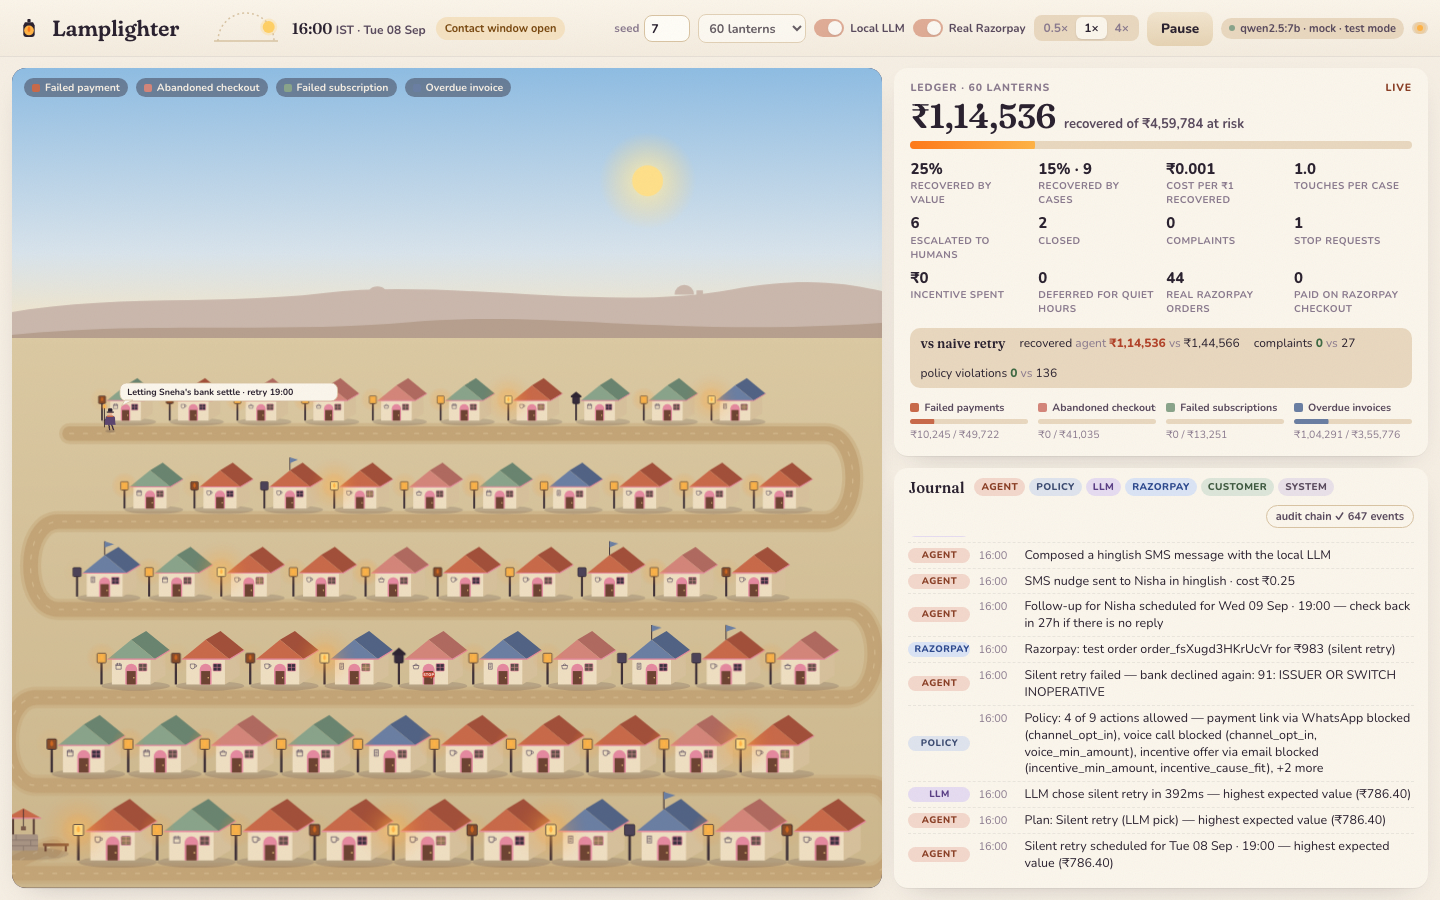
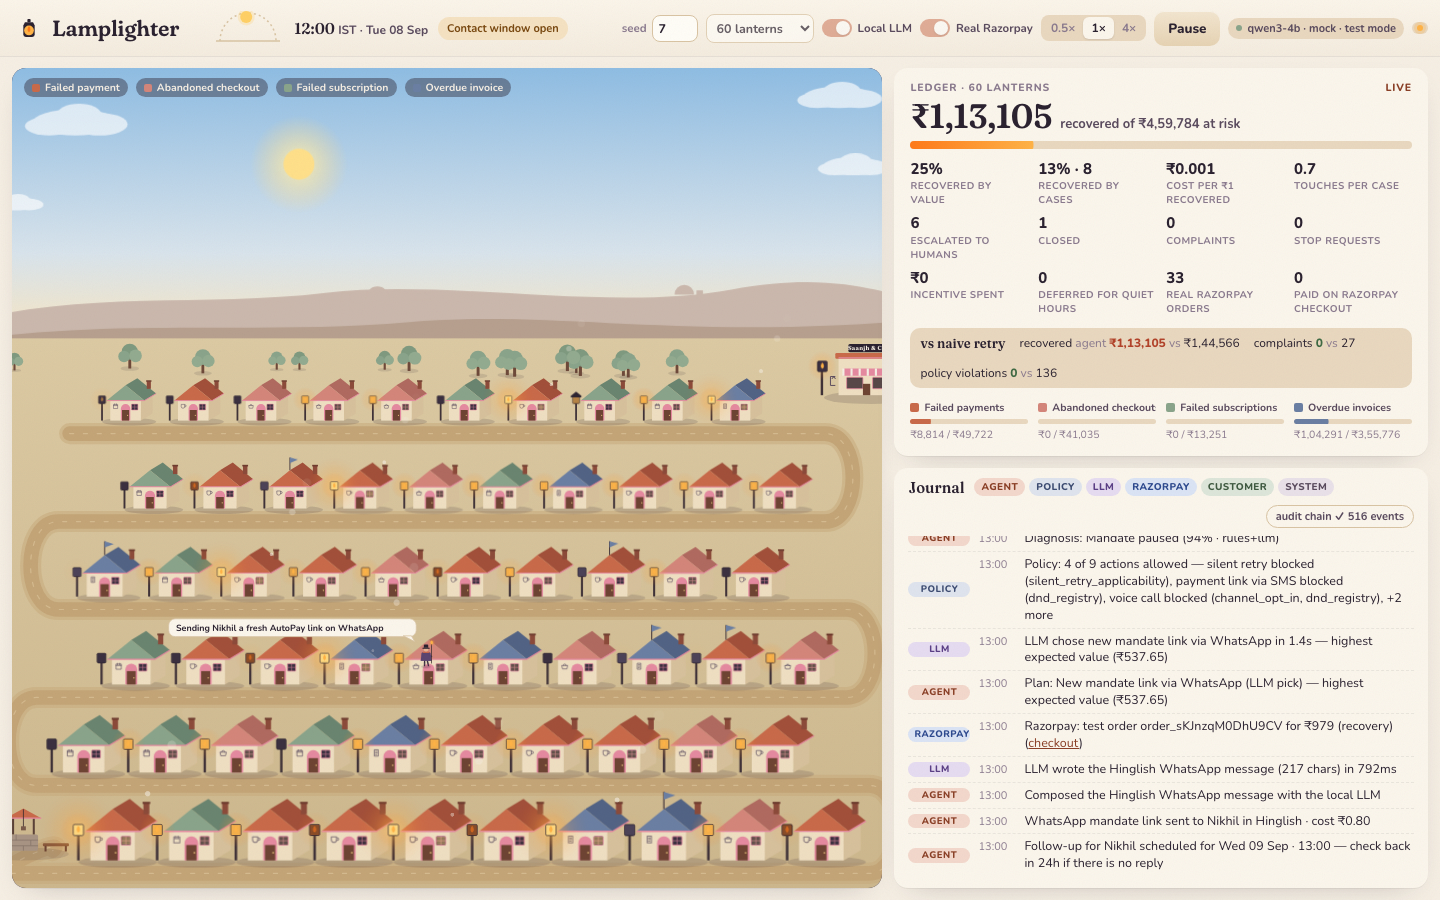
feat(town): chimneys with smoke on relit houses, lantern light pools at night, drifting clouds, treeline, the Saanjh & Co. studio

diff --git a/web/src/components/Town.tsx b/web/src/components/Town.tsx
@@ -19,6 +19,8 @@ interface Sparkle { key: number; x: number; y: number; amount: number }
 interface Tip { id: string; left: number; top: number }
 
 const SPARK_DIRS = [[-18, -22], [16, -26], [-26, -6], [26, -10], [-8, -32], [10, -34]];
+const CLOUDS = [{ y: 0.22, s: 1.15, dur: 190, delay: 40 }, { y: 0.4, s: 0.8, dur: 150, delay: 110 }, { y: 0.12, s: 0.95, dur: 230, delay: 170 }, { y: 0.55, s: 0.6, dur: 130, delay: 20 }];
+const STUDIO = { x: 1118, dy: 100 };
 
 export function Town({ cases, simNow, lamplighter, empty, selectedId, onSelect }: Props) {
   const wrapRef = useRef<HTMLDivElement>(null);
@@ -40,6 +42,7 @@ export function Town({ cases, simNow, lamplighter, empty, selectedId, onSelect }
   const mix = useMemo(() => skyMix(hour, H), [hour, H]);
   const stars = useMemo(() => scenery(11, 80), []);
   const flies = useMemo(() => scenery(23, 16), []);
+  const treeline = useMemo(() => scenery(31, 16).map((t, i) => ({ x: 60 + t.x * (TOWN_W - 340), y: layout.horizon + 62 + t.y * 14, s: 0.5 + t.r * 0.3, k: i % 2 })), [layout.horizon]);
   const indexById = useMemo(() => new Map(cases.map((c, i) => [c.case.id, i] as const)), [cases]);
   const horizon = layout.horizon;
 
@@ -152,6 +155,7 @@ export function Town({ cases, simNow, lamplighter, empty, selectedId, onSelect }
             <stop offset={((horizon + 10) / H).toFixed(4)} stopColor="#1b1638" stopOpacity="1" />
           </linearGradient>
           <radialGradient id="glow"><stop offset="0" stopColor="#ffd27a" stopOpacity="0.95" /><stop offset="0.35" stopColor="#ffb347" stopOpacity="0.55" /><stop offset="1" stopColor="#ff7a1a" stopOpacity="0" /></radialGradient>
+          <radialGradient id="pool"><stop offset="0" stopColor="#ffc46b" stopOpacity="0.6" /><stop offset="0.5" stopColor="#ffb347" stopOpacity="0.22" /><stop offset="1" stopColor="#ffb347" stopOpacity="0" /></radialGradient>
           <radialGradient id="sunGlow"><stop offset="0" stopColor="#fff2b0" stopOpacity="0.9" /><stop offset="1" stopColor="#ffd98a" stopOpacity="0" /></radialGradient>
           <radialGradient id="moonGlow"><stop offset="0" stopColor="#fff8e0" stopOpacity="0.55" /><stop offset="1" stopColor="#fff8e0" stopOpacity="0" /></radialGradient>
           <filter id="blur" x="-30%" y="-30%" width="160%" height="160%"><feGaussianBlur stdDeviation="7" /></filter>
@@ -177,6 +181,17 @@ export function Town({ cases, simNow, lamplighter, empty, selectedId, onSelect }
           <circle cx="-5" cy="-3" r="3" fill="#e4dcc2" />
           <circle cx="5" cy="5" r="2" fill="#e4dcc2" />
           <circle cx="4" cy="-6" r="1.4" fill="#e4dcc2" />
+        </g>
+
+        {/* clouds drift all day and fade out at night */}
+        <g className="clouds" style={{ opacity: (1 - mix.night) * 0.85 }}>
+          {CLOUDS.map((c, i) => (
+            <g key={i} className="cloud" style={{ '--cd': `${c.dur}s`, '--cdelay': `-${c.delay}s` } as CSSProperties}>
+              <g transform={`translate(0 ${(c.y * horizon).toFixed(0)}) scale(${c.s})`}>
+                <ellipse cx="0" cy="0" rx="46" ry="14" /><ellipse cx="-28" cy="4" rx="26" ry="10" /><ellipse cx="26" cy="2" rx="30" ry="12" /><ellipse cx="4" cy="-8" rx="24" ry="12" />
+              </g>
+            </g>
+          ))}
         </g>
 
         {/* horizon: far ridge with Jaipur domes, nearer hill with a little parallax */}
@@ -215,11 +230,47 @@ export function Town({ cases, simNow, lamplighter, empty, selectedId, onSelect }
         </g>
 
         {/* houses (bodies), then the night overlay, then everything that glows */}
+        <g className="treeline">
+          {treeline.map((t, i) => (
+            <g key={i} className="tree" transform={`translate(${t.x.toFixed(0)} ${t.y.toFixed(0)}) scale(${t.s.toFixed(2)})`}>
+              <ellipse cx="0" cy="3" rx="16" ry="4" fill="rgba(43,34,48,0.12)" />
+              <rect x="-2.5" y="-16" width="5" height="19" fill="#6e4a3a" />
+              <circle cx="0" cy="-26" r="14" fill={t.k ? '#7f9a80' : '#8aa48b'} />
+              <circle cx="-10" cy="-18" r="10" fill={t.k ? '#8aa48b' : '#93ab90'} />
+              <circle cx="10" cy="-19" r="11" fill="#93ab90" />
+            </g>
+          ))}
+        </g>
+        <g className="studio" transform={`translate(${STUDIO.x} ${(horizon + STUDIO.dy).toFixed(0)})`}>
+          <ellipse cx="4" cy="3" rx="58" ry="8" fill="rgba(43,34,48,0.16)" />
+          <polygon points="34,-46 54,-56 54,-12 34,0" fill="#d7c19c" />
+          <rect x="-36" y="-46" width="70" height="46" fill="#efdfc2" />
+          <rect x="-40" y="-52" width="98" height="7" rx="1.5" fill="#c96a4a" />
+          <path d="M-36,-46 H34 L54,-56" fill="none" stroke="#e58aa0" strokeWidth="1.6" />
+          <rect x="-30" y="-33" width="60" height="9" rx="1.5" fill="#e58aa0" />
+          <path d="M-30,-33 v9 M-20,-33 v9 M-10,-33 v9 M0,-33 v9 M10,-33 v9 M20,-33 v9" stroke="#f6efe4" strokeWidth="2.6" />
+          <rect x="-26" y="-22" width="20" height="14" rx="1" fill="#3b3040" stroke="#e58aa0" strokeWidth="1" />
+          <rect x="6" y="-22" width="20" height="14" rx="1" fill="#3b3040" stroke="#e58aa0" strokeWidth="1" />
+          <rect x="-6" y="-14" width="9" height="14" fill="#6e4433" />
+          <rect x="-24" y="-63" width="48" height="10" rx="2" fill="#2b2230" />
+          <text x="0" y="-55.5" textAnchor="middle" fontSize="7.2" fontWeight="700" fill="#f6efe4" style={{ fontFamily: 'var(--font-display)', letterSpacing: 0.3 }}>Saanjh &amp; Co.</text>
+          <path d="M-40,-23 h-6 v11 h6 M-44,-20 a2,2 0 0 1 4,0" fill="none" stroke="#5a4b5e" strokeWidth="1.2" />
+          <rect x="-58" y="-30" width="3" height="30" className="h-post" />
+        </g>
         <g className="houses">
           {layout.spots.map((sp, i) => cases[i] && <House key={cases[i].case.id} st={cases[i]} x={sp.x} y={sp.y} s={sp.s} i={i} selected={cases[i].case.id === selectedId} />)}
         </g>
         <rect className="night-overlay" width={TOWN_W} height={H} fill="url(#nightFade)" style={{ opacity: overlayOpacity }} />
         <g className="lights">
+          <g className="studio-lights" transform={`translate(${STUDIO.x} ${(horizon + STUDIO.dy).toFixed(0)})`}>
+            <ellipse cx="-56" cy="3" rx="34" ry="9" className="pool-always" />
+            <rect x="-25.5" y="-21.5" width="19" height="13" className="swin" />
+            <rect x="6.5" y="-21.5" width="19" height="13" className="swin" />
+            <circle cx="-56" cy="-36" r="18" className="sglow" />
+            <rect x="-62" y="-42" width="12" height="13" rx="1.5" fill="#3b3040" stroke="#2b2230" strokeWidth="0.8" />
+            <path d="M-56,-40.5 c-2.6,3.2 -2.6,6.4 0,8 c2.6,-1.6 2.6,-4.8 0,-8z" fill="#ffb347" />
+            {[0, 1.3].map((d) => <circle key={d} className="puff" cx="44" cy="-58" r="3" style={{ '--pd': `${d}s` } as CSSProperties} />)}
+          </g>
           {layout.spots.map((sp, i) => cases[i] && <HouseLights key={cases[i].case.id} st={cases[i]} x={sp.x} y={sp.y} s={sp.s} i={i} selected={false} />)}
         </g>
 

diff --git a/web/src/styles.css b/web/src/styles.css
@@ -170,7 +170,22 @@ h1, h2, h3, h4 { margin: 0; font-weight: 600; }
 .house .h-win { fill: #3b3040; stroke: var(--pink); stroke-width: 1; }
 .house .h-winbar { stroke: var(--pink); stroke-width: 0.8; opacity: 0.8; }
 .house .h-icon { fill: none; stroke: #5a4b5e; stroke-width: 1.2; stroke-linecap: round; stroke-linejoin: round; opacity: 0.7; }
-.house .h-post { fill: #3f3238; }
+.house .h-post, .studio .h-post { fill: #3f3238; }
+.house .h-chimney { fill: #8c4b3a; }
+.house .h-chimcap { fill: #6e3c2f; }
+.lantern .pool { fill: url(#pool); opacity: 0; transition: opacity 1.6s linear; }
+.lantern.st-recovered .pool { opacity: calc(0.85 * var(--night)); }
+.lantern.st-awaiting_customer .pool { opacity: calc(0.42 * var(--night)); }
+.lantern.st-scheduled .pool { opacity: calc(0.18 * var(--night)); }
+.puff { fill: rgba(246, 239, 228, 0.85); opacity: 0; animation: puff 3.8s ease-out infinite; animation-delay: var(--pd); }
+@keyframes puff { 0% { transform: translate(0, 0) scale(0.5); opacity: 0; } 15% { opacity: 0.7; } 100% { transform: translate(8px, -32px) scale(2.1); opacity: 0; } }
+.clouds { pointer-events: none; transition: opacity 1.6s linear; }
+.cloud { fill: #fff; opacity: 0.78; animation: cloud-drift var(--cd) linear infinite; animation-delay: var(--cdelay); }
+@keyframes cloud-drift { from { transform: translateX(-300px); } to { transform: translateX(1500px); } }
+.treeline, .studio { pointer-events: none; }
+.studio-lights .swin { fill: #ffd27a; opacity: calc(0.15 + 0.85 * var(--night)); transition: opacity 1.6s linear; }
+.studio-lights .sglow { fill: url(#glow); opacity: calc(0.45 + 0.55 * var(--night)); transition: opacity 1.6s linear; }
+.studio-lights .pool-always { fill: url(#pool); opacity: calc(0.85 * var(--night)); transition: opacity 1.6s linear; }
 .house .h-pole { stroke: #3f3238; stroke-width: 1.4; }
 .house:hover .h-front, .house:focus-visible .h-front { fill: #fbeed4; }
 .house:focus-visible .h-front { stroke: var(--amber); stroke-width: 2.5; }
@@ -393,7 +408,8 @@ h1, h2, h3, h4 { margin: 0; font-weight: 600; }
 /* ---------- reduced motion ---------- */
 @media (prefers-reduced-motion: reduce) {
   .st-awaiting_customer .glow, .st-scheduled .glow, .star.tw, .hill-mid, .firefly, .lp.walking .lp-figure, .lp.walking .leg-l, .lp.walking .leg-r,
-  .lp .steam, .lp .flame-lp, .pennant-flag, .lp.lift .lp-arm, .jl, .notice, .town-tip, .town-caption, .to-bottom { animation: none !important; }
+  .lp .steam, .lp .flame-lp, .pennant-flag, .lp.lift .lp-arm, .jl, .notice, .town-tip, .town-caption, .to-bottom, .puff, .cloud { animation: none !important; }
+  .puff { opacity: 0; }
   .st-awaiting_customer .glow { opacity: 0.75; }
   .st-scheduled .glow { opacity: 0.35; }
   .firefly { opacity: 0.5; }

diff --git a/web/src/components/House.tsx b/web/src/components/House.tsx
@@ -25,6 +25,8 @@ export const House = memo(function House({ st, x, y, s, selected }: HouseProps) 
       <polygon points="26,-34 46,-46 46,-12 26,0" className="h-side" />
       <rect x="-26" y="-34" width="52" height="34" className="h-front" />
       <polygon points="0,-60 20,-72 52,-46 32,-34" fill={ROOF_SHADE[c.kind]} />
+      <rect x="36" y="-67" width="7" height="13" className="h-chimney" />
+      <rect x="35" y="-68.5" width="9" height="2.5" className="h-chimcap" />
       <polygon points="-32,-34 0,-60 32,-34" fill={KIND_COLOR[c.kind]} />
       <path d="M-32,-34 H32 L52,-46" className="h-trim" />
       <path d="M-8,-20 a8,8 0 0 1 16,0 v20 h-16z" className="h-doorframe" />
@@ -56,7 +58,13 @@ export const HouseLights = memo(function HouseLights({ st, x, y, s, i }: HousePr
   const style = { '--fd': `${(0.6 + ((i * 7) % 7) / 10).toFixed(2)}s`, '--fdl': `-${((i * 13) % 10) / 10}s` } as CSSProperties;
   return (
     <g className={`lantern st-${st.status}`} transform={`translate(${x.toFixed(1)} ${y.toFixed(1)}) scale(${s.toFixed(3)})`} style={style}>
+      <ellipse cx="-38" cy="3" rx="36" ry="9" className="pool" />
       <rect x="10.5" y="-27.5" width="10" height="9" className="win" />
+      {st.status === 'recovered' && (
+        <g className="smoke">
+          {[0, 1.2, 2.4].map((d) => <circle key={d} className="puff" cx="39.5" cy="-70" r="3.2" style={{ '--pd': `${d}s` } as CSSProperties} />)}
+        </g>
+      )}
       <g className="glows">
         {st.status === 'recovered' && <circle cx="-40" cy="-36" r="38" className="halo" />}
         <circle cx="-40" cy="-36" r="21" className="glow" />

diff --git a/web/src/mock.ts b/web/src/mock.ts
@@ -436,7 +436,7 @@ class MockRun {
     return {
       id: this.id, config: this.config, status: this.status, simStart: SIM_START, simNow: this.simNow, simEnd: this.timeAt(TICKS),
       cases: this.cases(), metrics: this.metrics, baseline: this.baseline, lamplighter: this.lamplighter,
-      auditCount: this.audit.length, auditTail: this.audit.slice(-200),
+      timeline: [], baselineTimeline: [], auditCount: this.audit.length, auditTail: this.audit.slice(-200),
     };
   }
   auditFor(caseId: string) { return this.audit.filter((e) => e.caseId === caseId); }
